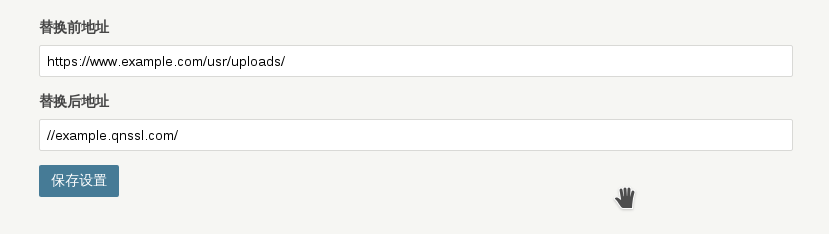
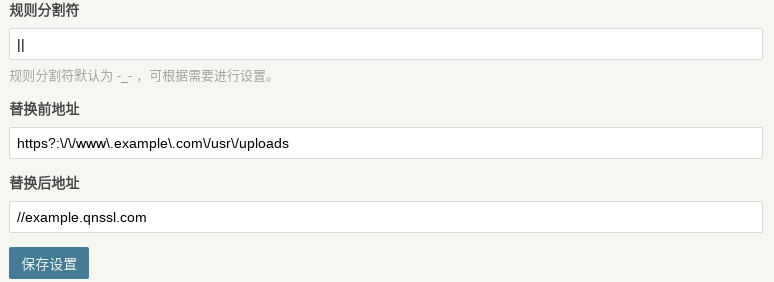
完善Readme，License信息

diff --git a/README.md b/README.md
@@ -5,7 +5,7 @@ Typecho-SimpleCDN
 
 本插件用于将页面内部分内容（在模板渲染前）按照设置的规则进行替换。可用于镜像缓存类CDN，同时也是此类需求最常见的场景，故取名为SimpleCDN。
 
-注意此插件只是将内容在渲染前动态更改，这样之后镜像CDN如果不用了或者出问题，关闭插件即可，就不用担心内容怎么处理了。
+注意此插件只是将内容在渲染前动态更改，即标题、文章的原文（如果是Markdown则是其进行MD解析之前的内容）；这样之后镜像CDN如果不用了或者进行更换，更改插件设置即可，就不用担心内容上的问题了。
 
 ### 安装
 
@@ -26,12 +26,34 @@ Typecho-SimpleCDN
 
 #### 一般用法
 
-启用插件之后点击设置，若如下图所示进行设置(规则分割符留空、镜像CDN地址需根据情况自行设置)，则可以将上传的静态图片、附件在渲染的时候改到相应的镜像CDN地址：
+启用插件之后点击设置，若如下图所示进行设置(规则分割符不修改、镜像CDN地址需根据情况自行设置)，则可以将上传的静态图片、附件在进行页面渲染前改到相应的镜像CDN地址：
 
-<img src="https://github.com/mierhuo/SimpleCDN/blob/master/example.png?raw=true" alt="example.jpg">
+**（请注意转义正则特殊字符）**
+
+<img src="https://github.com/mierhuo/SimpleCDN/blob/master/example.png?raw=true" alt="一般用法配置例子">
 
 #### 正则替换
 
+有时候，一般用法并不能满足需求，可能文章内容中也出现了博客地址切不需要更换，这时就体现出了正则替换的作用。这时只需要提供更详细的原文替换规则即可，例如对于Markdown中的图片地址进行替换，如下图：
 
+<img src="https://github.com/mierhuo/SimpleCDN/blob/master/reg_example.png?raw=true" alt="正则替换配置例子">
+
+**（正则捕获的值可根据需要进行引用）**
 
 #### 多条替换
+
+多条替换则是配置的时候通过分割符分割替换规则，即可达到多条替换的效果。
+
+如下图：
+
+<img src="https://github.com/mierhuo/SimpleCDN/blob/master/multi_example.png?raw=true" alt="多条替换配置例子">
+
+### 相关
+
+插件使用了PHP标准库函数： `preg_replace` ，使用插件时可根据需要进行参考：
+
+<a href="http://php.net/manual/en/function.preg-replace.php" target="_blank">PHP: preg_replace - Manual</a>
+
+### License
+
+<a href="./blob/master/LICENSE.txt">The GNU General Public License (GPL) V2</a>
